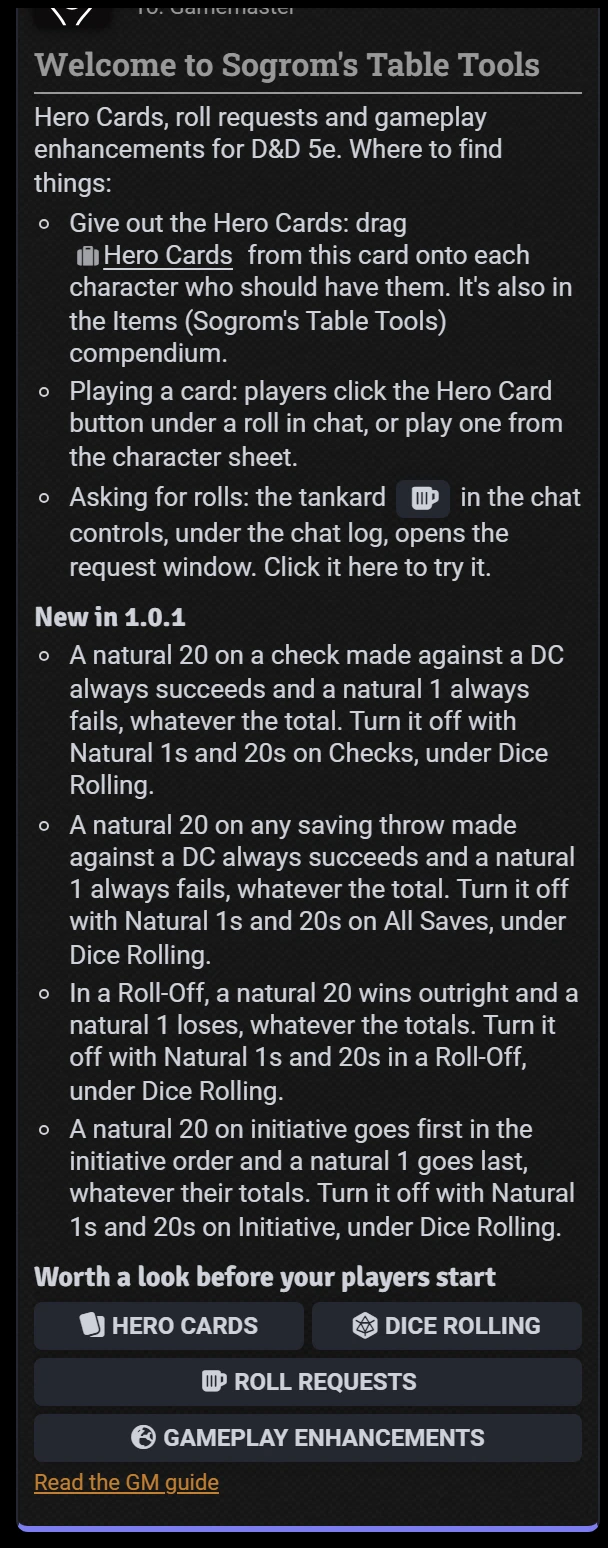
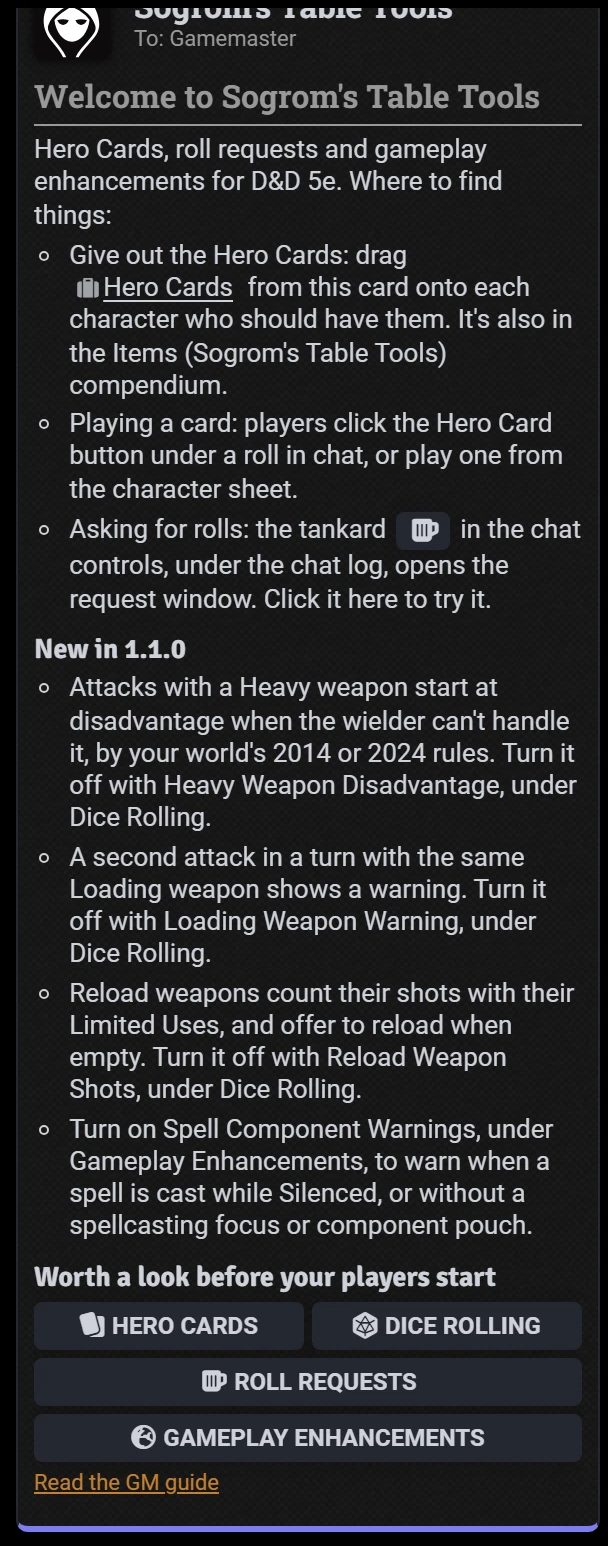
Screenshots: settings menus and welcome card for 1.1.0
The Dice Rolling window shows the four weapon property settings, and
Gameplay Enhancements shows Spell Component Warnings. The welcome card
lists what's new in 1.1.0.

The screenshot script makes the browser taller while it captures the
settings menus, since Foundry keeps a window within the browser's height
and Dice Rolling is now longer than that.

Changed region(s): [[0.0312, 0.0, 0.9688, 0.9935], [0.8438, 0.8383, 0.9062, 0.8693]]

diff --git a/docs/gm.md b/docs/gm.md
@@ -36,7 +36,7 @@ tankard to open the request window. After an update that adds features, you get 
 A patch release says nothing. Turn the cards off with **Welcome and What's New Cards**, under
 [Gameplay Enhancements](#gameplay-enhancements).
 
-<img src="images/gm-welcome.webp" alt="The welcome card: where to find things, with a Hero Cards link and a tankard button, what's new in 1.0.1, and buttons for Hero Cards, Dice Rolling, Roll Requests and Gameplay Enhancements" width="300">
+<img src="images/gm-welcome.webp" alt="The welcome card: where to find things, with a Hero Cards link and a tankard button, what's new in 1.1.0, and buttons for Hero Cards, Dice Rolling, Roll Requests and Gameplay Enhancements" width="300">
 
 The compendiums sit in a **Sogrom's Table Tools** folder in the Compendium sidebar. Players can view them.
 
